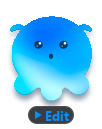
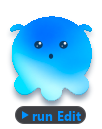
fix(ui): stop the card's status and project name from overlapping
卡片的第二行以前是两列各算各的宽度：左边状态按整列宽度画、右边项目名
贴在图标左边，于是「执行 read」和项目名叠在同一块地方，糊成一团。

现在两列宽度一起算：
  · 状态拿右列算完剩下的，绝不越界
  · 项目名与用时分色，整体右对齐到图标左边，位置固定不跳
  · 项目名先被省略，用时永远留着（它一直在走，最该看见）
另外：状态加了淡色胶囊底、左侧色条不再被圆角切掉、团子下面的状态胶囊
从「read」改成「执行 read」。

截图由 --selftest 重新生成，与新排版一致。

Changed region(s): [[0.1471, 0.8062, 0.8529, 0.9612]]

diff --git a/minimax_pet.py b/minimax_pet.py
@@ -99,6 +99,8 @@ BG        = "#161616"
 BORDER    = "#2A2A2A"
 FG        = "#FFFFFF"
 FG_SUBTLE = "#A1A1A1"
+# 用时比项目名更该被一眼看见，所以给它亮一档的灰
+META_BRIGHT = "#C6CBD3"
 SUCCESS   = "#4ADE80"
 DESTRUCT  = "#EF4444"
 WARNING   = "#FBBF24"
@@ -1928,7 +1930,8 @@ class TaskCard(QWidget):
         self.setAttribute(Qt.WA_TranslucentBackground)
         self.setCursor(Qt.PointingHandCursor)
         self.setFixedHeight(_px(CARD_H))
-        self.d = {"title": "", "status": "", "meta": "", "color": FG_SUBTLE,
+        self.d = {"title": "", "status": "", "meta": "", "project": "",
+                  "elapsed": "", "color": FG_SUBTLE,
                   "kind": "idle", "key": ""}
         self._hover = False
 
@@ -1955,10 +1958,11 @@ class TaskCard(QWidget):
         p.setPen(QPen(QColor(255, 255, 255, 30 if self._hover else 18), 1))
         p.setBrush(QColor(24, 26, 30, 242 if self._hover else 232))
         p.drawRoundedRect(body.adjusted(0.5, 0.5, -0.5, -0.5), r, r)
-        # 左侧状态色条
+        # 左侧状态色条。往里收一点，别顶在圆角上被切掉。
         p.setPen(Qt.NoPen)
         p.setBrush(QColor(self.d["color"]))
-        p.drawRoundedRect(QRectF(0, h * 0.22, _px(3), h * 0.56), _px(1.5), _px(1.5))
+        p.drawRoundedRect(QRectF(_px(5), h * 0.26, _px(3), h * 0.48),
+                          _px(1.5), _px(1.5))
 
         pad = _px(13)
         right = _px(12)
@@ -1970,23 +1974,73 @@ class TaskCard(QWidget):
         f_status = ui_font(_fpx(11))
         f_meta = ui_font(_fpx(10), bold=False)
         fm_t, fm_s, fm_m = (QFontMetrics(f) for f in (f_title, f_status, f_meta))
-        meta_w = fm_m.horizontalAdvance(self.d["meta"]) + _px(2)
-        text_w = icon_cx - icon_r - _px(8) - (pad + _px(4))
+
+        # 图标左边那一列的**总**宽度，标题行和第二行都从这里面分。
+        col_w = max(_px(40), icon_cx - icon_r - _px(8) - pad)
 
         # 行高由字体度量决定，不能写死 _px(17)/_px(16)——那跟着 SIZE_RATIO 缩，
         # 字号一旦独立放大就会被裁掉。两行整体在卡片里垂直居中。
         row_t, row_b = fm_t.height(), max(fm_s.height(), fm_m.height())
         gap = max(2, _px(3))
         top = (h - (row_t + gap + row_b)) / 2.0
-        top_rect = QRectF(pad, top, text_w, row_t)
-        bot_rect = QRectF(pad, top + row_t + gap, text_w, row_b)
-        _draw_text(p, top_rect, _elide(fm_t, self.d["title"], text_w),
+        top_rect = QRectF(pad, top, col_w, row_t)
+
+        # ---------- 第二行：左「状态」 右「项目 · 用时」 ----------
+        # 这两列的宽度必须**一起**算。以前左边按整列宽度画、右边的项目名又
+        # 贴在图标左边，于是「执行 read」和项目名叠在同一块地方，糊成一团
+        # （用户截图里的那个问题）。现在先给右列算预算，左列再拿剩下的，
+        # 两列**永不重叠**。
+        col_gap = _px(9)
+        min_status = _px(30)
+        elapsed = self.d.get("elapsed") or ""
+        proj = self.d.get("project") or ""
+        time_w = fm_m.horizontalAdvance(elapsed)
+        sep_w = fm_m.horizontalAdvance(" · ") if proj else 0
+        # 右列整体预算：最多占六成，而且必须给左边的状态留够位置。
+        right_budget = col_w * 0.6
+        right_budget = min(right_budget,
+                           max(0.0, col_w - min_status - col_gap))
+        # 项目名先被削，用时永远留着（它很短，而且一直在走，最该看见）。
+        proj_budget = max(0.0, right_budget - time_w - sep_w)
+        proj_text = (_elide(fm_m, proj, proj_budget)
+                     if (proj and proj_budget > 0) else "")
+        proj_w = fm_m.horizontalAdvance(proj_text)
+        right_w = proj_w + sep_w + time_w
+        status_w = max(min_status, col_w - right_w - col_gap)
+        status_text = _elide(fm_s, self.d["status"], status_w)
+
+        bot_rect = QRectF(pad, top + row_t + gap, status_w, row_b)
+        # 状态加一层淡色底：层次更清楚，比纯文字更醒目
+        sw = fm_s.horizontalAdvance(status_text)
+        if sw > 0:
+            chip_h = min(row_b, _px(16))
+            chip = QRectF(pad, bot_rect.y() + (row_b - chip_h) / 2.0,
+                          sw + _px(11), chip_h)
+            tint = QColor(self.d["color"])
+            tint.setAlpha(44)
+            p.setPen(Qt.NoPen)
+            p.setBrush(tint)
+            p.drawRoundedRect(chip, chip_h / 2.0, chip_h / 2.0)
+        _draw_text(p, bot_rect, status_text, f_status, self.d["color"],
+                   Qt.AlignLeft | Qt.AlignVCenter)
+        # 右列整体**右对齐**到图标左边：项目名的位置固定，不会因为左边状态
+        # 文字变长变短而左右跳。项目名和用时分色：时间更醒目。
+        right_edge = icon_cx - icon_r - _px(6)
+        time_x = right_edge - time_w
+        sep_x = time_x - sep_w
+        proj_x = sep_x - proj_w
+        if proj_text:
+            _draw_text(p, QRectF(proj_x, bot_rect.y(), proj_w, row_b),
+                       proj_text, f_meta, FG_SUBTLE,
+                       Qt.AlignLeft | Qt.AlignVCenter)
+        if sep_w:
+            _draw_text(p, QRectF(sep_x, bot_rect.y(), sep_w, row_b),
+                       " · ", f_meta, FG_SUBTLE, Qt.AlignLeft | Qt.AlignVCenter)
+        _draw_text(p, QRectF(time_x, bot_rect.y(), time_w, row_b),
+                   elapsed, f_meta, META_BRIGHT, Qt.AlignLeft | Qt.AlignVCenter)
+
+        _draw_text(p, top_rect, _elide(fm_t, self.d["title"], col_w),
                    f_title, FG, Qt.AlignLeft | Qt.AlignVCenter)
-        _draw_text(p, bot_rect, _elide(fm_s, self.d["status"], text_w),
-                   f_status, self.d["color"], Qt.AlignLeft | Qt.AlignVCenter)
-        _draw_text(p, QRectF(icon_cx - icon_r - _px(6) - meta_w,
-                             bot_rect.y(), meta_w, row_b),
-                   self.d["meta"], f_meta, FG_SUBTLE, Qt.AlignRight | Qt.AlignVCenter)
 
 
 def _elide(fm, text, width):
@@ -2921,10 +2975,14 @@ class PetWindow(QWidget):
             else:
                 status = mood_name(state)
             proj = s.get("project") or ""
-            meta = (proj + " · " if proj else "") + elapsed_str(s)
             out.append({"key": s["key"],
                         "title": s["task"] or t("card.untitled"),
-                        "status": status, "meta": meta,
+                        "status": status,
+                        # 项目名和用时**分开存**：空间不够时只削项目名，
+                        # 用时永远留着（它很短，而且一直在走，是最该看见的信息）。
+                        "project": proj,
+                        "elapsed": elapsed_str(s),
+                        "meta": (proj + " · " if proj else "") + elapsed_str(s),
                         "color": color, "kind": state})
         return out
 
@@ -2935,7 +2993,10 @@ class PetWindow(QWidget):
         n = self.watcher.count_active()
         bits = {
             "thinking": t("mood.thinking"),
-            "executing": ellipsize(s.get("tool") or t("chip.exec_generic"), 10),
+            # 光写个工具名（"read"）看不出在干什么，胶囊小但也要说人话：
+            # 「执行 read」。
+            "executing": (ellipsize(t("chip.exec_tool", s.get("tool")), 14)
+                          if s.get("tool") else t("chip.exec_generic")),
             "waiting": t("mood.waiting"),
             "error": t("mood.error"),
             "done": t("chip.done", s["steps"], elapsed_str(s)),

diff --git a/i18n.py b/i18n.py
@@ -280,6 +280,7 @@ STRINGS = {
         "auto.keepalive_note_txt": "哨兵和桌宠都被清掉时，把哨兵补回来（不会解除「用户手动退出」的暂停）",
         "auto.keepalive_undo_cmd": "撤销：python autostart.py keepalive off",
         "auto.keepalive_enable_cmd": "开启：python autostart.py keepalive on",
+        "chip.exec_tool": "执行 {0}",
     },
 
     "en": {
@@ -526,6 +527,7 @@ STRINGS = {
         "auto.keepalive_note_txt": "brings the sentinel back when both the sentinel and the pet are gone (it does NOT clear a manual quit)",
         "auto.keepalive_undo_cmd": "Undo: python autostart.py keepalive off",
         "auto.keepalive_enable_cmd": "Enable: python autostart.py keepalive on",
+        "chip.exec_tool": "run {0}",
     },
 }
 
